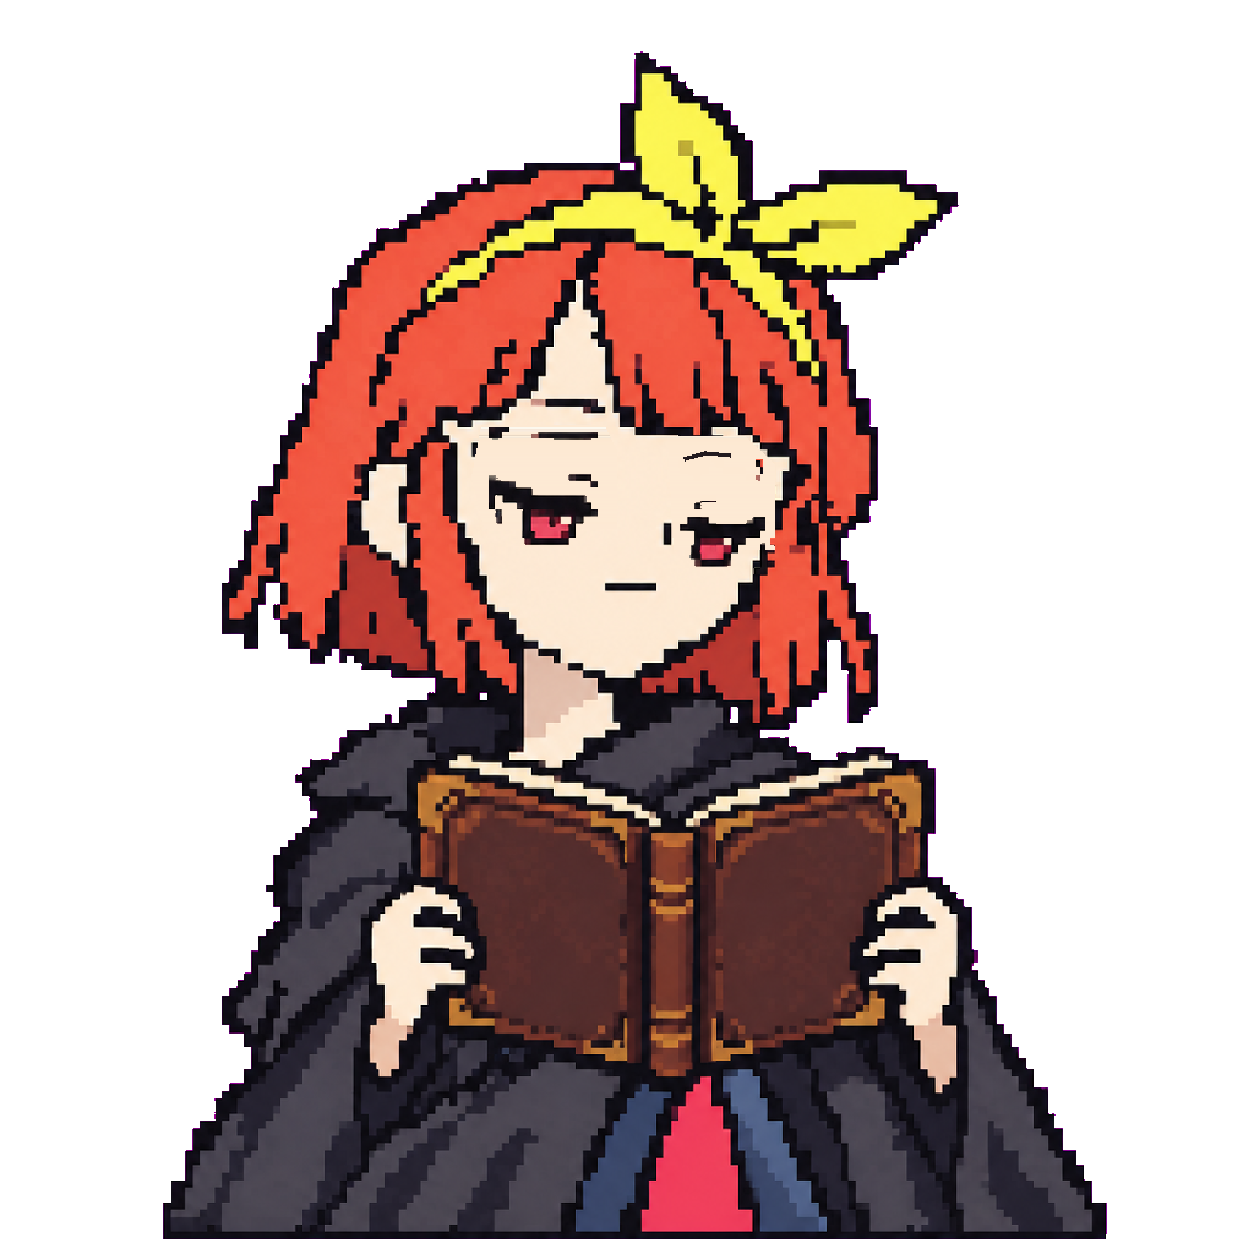
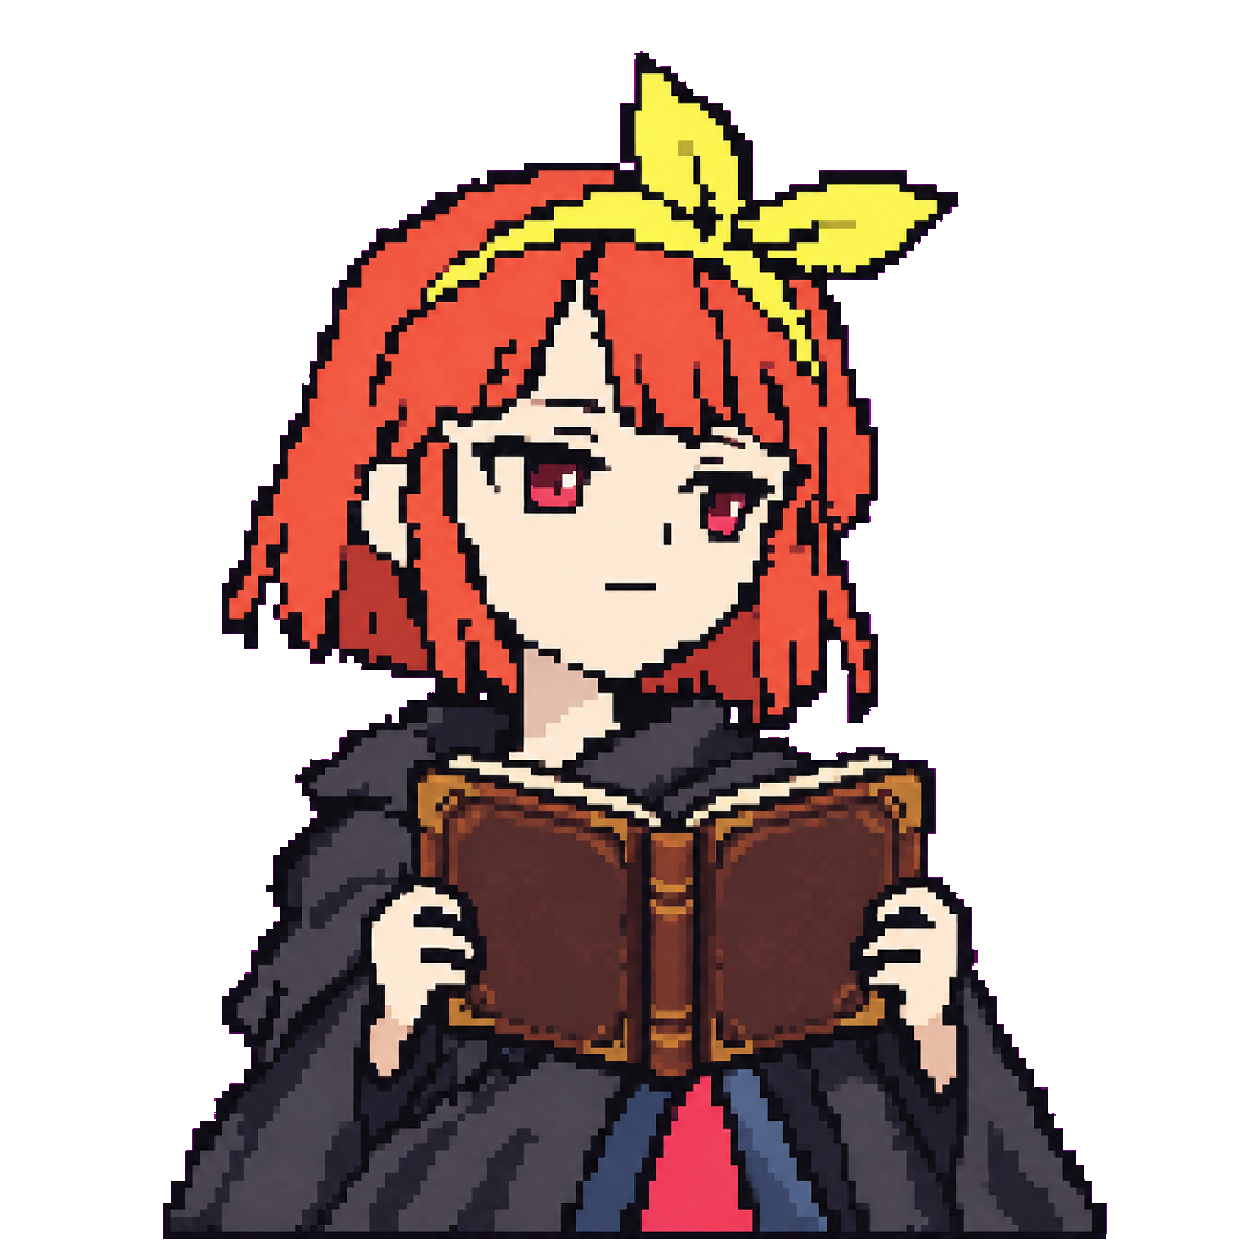
fix: 기록을 읽는 워드 초상화의 눈을 원래 모양으로 다시 그림
시선을 내리려고 눈꺼풀을 내린 그림이 반쯤 감긴 눈이라 기괴해 보였다.
원래 초상화의 눈 모양과 크기는 그대로 두고 눈동자만 아래로 내린 그림으로 바꾼다.

Refs #119

Changed region(s): [[0.5287, 0.3421, 0.622, 0.4665], [0.3732, 0.3421, 0.4976, 0.4354]]

diff --git a/docs/design/word-gesture-portraits/README.md b/docs/design/word-gesture-portraits/README.md
@@ -48,7 +48,9 @@ python3 docs/design/word-gesture-portraits/import_gestures.py <생성 폴더>
 
 1. `WordDialogue.png` 를 바탕으로, `WordShowBookDialogue.png` 를 책 모양 참고로 넘겨 편집 모드로 생성했다. 프롬프트는 `prompt.txt` 의
    "WordReadBook" 부분이다. 책 방향은 맞았지만 눈이 앞을 보고 있어서 읽는 모습으로 보이지 않았다.
-2. 1번 결과를 바탕으로 눈꺼풀과 시선만 내리게 다시 편집했다("WordReadBook 시선" 부분).
+2. 1번 결과를 바탕으로 눈꺼풀과 시선을 내리게 다시 편집했는데("WordReadBook 시선" 부분), 눈이 반쯤 감겨 졸리고 기괴해 보였다.
+   그래서 1번 결과에서 원래 초상화의 눈 모양과 크기는 그대로 두고 눈동자만 아래로 내리게 다시 편집해 이것을 썼다
+   ("WordReadBook 눈 다시 그리기 (최종)" 부분).
 3. 다른 몸짓과 같이 `import_gestures.py` 의 `remove_background` 로 마젠타 배경을 지우고 1254×1254 로 키웠다. import 설정은
    `WordDialogue.png.meta` 를 복사했다.
 
